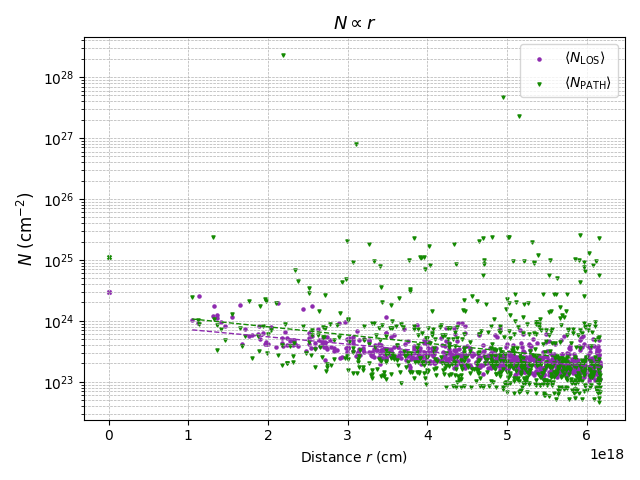
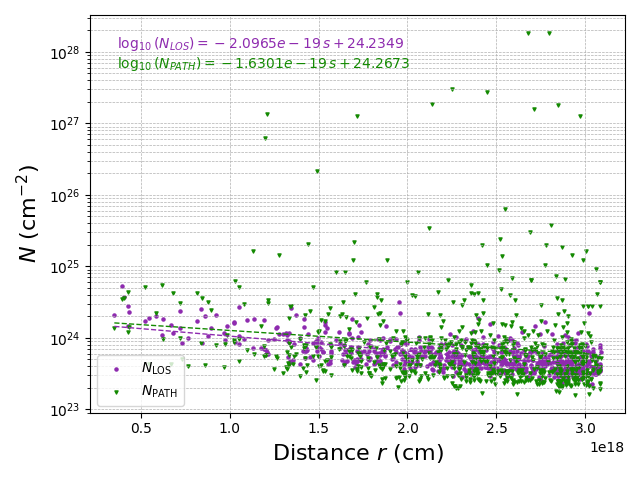
update: added png in descriptors/ | ionization by mirrors plotted in i_rate/ | R vs n_g in reduction/

Changed region(s): [[0.0312, 0.0312, 0.9688, 0.9688], [0.0625, 0.1562, 0.0938, 0.1875]]

diff --git a/padovani.py b/padovani.py
@@ -38,17 +38,16 @@ Estar = 1.0e+6
 
 logE0, logEf = 6, 9
 energy = np.logspace(logE0, logEf, size)
-print("energy range for CR spectrum (log10): ", logE0, logEf)
 diff_energy = np.array([energy[k]-energy[k-1] for k in range(len(energy))])
 diff_energy[0] = energy[0]
 
 #ism_spectrum = lambda x: C*(x**0.1/((Estar + x)**2.8))
 #ism_spectrum = lambda x: Jstar*(x/Estar)**a
-if sys.argv[3] == 'L':
+if sys.argv[2] == 'L':
     C = 2.43e+15 *4*np.pi
     alpha, beta = 0.1, 2.8
     Enot = 650e+6
-elif sys.argv[3] == 'H':
+elif sys.argv[2] == 'H':
     C = 2.43e+15 *4*np.pi
     alpha, beta = -0.8, 1.9
     Enot = 650e+6
@@ -69,7 +68,6 @@ if True:
 
     cross = interpolate.interp1d( cross_data["E"], cross_data["sigmap"])
     loss = interpolate.interp1d(loss_data["E"], loss_data["L_full"])
-
 
 if True: # Padovani & Alexei Models for CR Ionization-rate
     """  
@@ -110,14 +108,14 @@ if True: # Padovani & Alexei Models for CR Ionization-rate
     #plt.savefig('./images/i_rate/padovani2018')
     #plt.close()
 
-line, mus = int(sys.argv[1]), int(sys.argv[2])
+mus = int(sys.argv[1])
 
 if True:
 
     import h5py
     import numpy as np
 
-    h5_path = f"./stats/ideal/{sys.argv[4]}/DataBundle.h5"
+    h5_path = f"./stats/ideal/{sys.argv[3]}/DataBundle.h5"
 
     with h5py.File(h5_path, "r") as f:
 
@@ -129,9 +127,6 @@ if True:
         reduction_fac   = f["reduction_factor"][()]
         directions      = f["directions"][()]
         average_column  = f["column_los"][()]
-        numb_density    = f["densities"][()][:, line]
-        magnetic_field =  f["bfields"][()][:, line]
-        radius_vector  =  f["vectors"][()][:, line, :]
 
         # --- Metadata / attributes ---
         cores_used     = f.attrs["cores_used"]
@@ -141,35 +136,23 @@ if True:
         center         = f.attrs["center"]
         volume_range   = f.attrs["volume_range"]
         density_range  = f.attrs["density_range"]
+        follow_index0   = f.attrs["index"]
 
+        # --- Physical Parameters ---
+        numb_densities    = f["densities"][()][:, :]
+        magnetic_fields =  f["bfields"][()][:, :]
+        radius_vectors  =  f["vectors"][()][:, :, :]
 
-    # --- Adjustments / Resizing ---
-    mask = np.where(numb_density > 0.0)[0]
-    start, end = mask[0], mask[-1]
-    follow_index = numb_density.shape[0]
-
-    print(start, follow_index//2, end)
-    numb_density    = numb_density[start:end+1]
-    magnetic_field =  magnetic_field[start:end+1]
-    radius_vector  =  radius_vector[start:end+1, :]*pc_to_cm
-    trajectory = np.cumsum(np.linalg.norm(radius_vector, axis=1)) #np.insert(, 0, 0.0)
-
-    print("trajectory:           ", trajectory.shape)
-    print("radius_vectors:       ", radius_vector.shape)
-    print("numb_density:         ", numb_density.shape)
-    print("magnetic_field:       ", magnetic_field.shape)
-
-    am = np.argmax(magnetic_field)
     #numb_density    = numb_density[:am]
     #magnetic_field = magnetic_field[:am]
     #radius_vector  =  radius_vector[:am, :]
-    trajectory = np.cumsum(np.linalg.norm(radius_vector, axis=1))
+
     #magnetic_field =  np.mean(magnetic_field)*magnetic_field/magnetic_field
-    fig, axs = plt.subplot_mosaic([["a"], ["b"], ["c"]], figsize=(10, 8), layout="constrained")
-    axs["a"].plot(trajectory, c="b"); axs["a"].set_title("Trajectory"); axs["a"].set_ylabel("Trajectory")
-    axs["b"].plot(numb_density, c="g"); axs["b"].set_yscale("log"); axs["b"].set_title("Number Density"); axs["b"].set_ylabel("n (cm$^{-3}$)")
-    axs["c"].plot(magnetic_field, c="r"); axs["c"].set_yscale("log"); axs["c"].set_title("Magnetic Field"); axs["c"].set_ylabel("B (μG)"); axs["c"].set_xlabel("Index")
-    plt.savefig("./images/i_rate/mosaic_plot.png"); plt.close()
+    #fig, axs = plt.subplot_mosaic([["a"], ["b"], ["c"]], figsize=(10, 8), layout="constrained")
+    #axs["a"].plot(trajectory, c="b"); axs["a"].set_title("Trajectory"); axs["a"].set_ylabel("Trajectory")
+    #axs["b"].plot(numb_density, c="g"); axs["b"].set_yscale("log"); axs["b"].set_title("Number Density"); axs["b"].set_ylabel("n (cm$^{-3}$)")
+    #axs["c"].plot(magnetic_field, c="r"); axs["c"].set_yscale("log"); axs["c"].set_title("Magnetic Field"); axs["c"].set_ylabel("B (μG)"); axs["c"].set_xlabel("Index")
+    #plt.savefig("./images/i_rate/mosaic_plot.png"); plt.close()
     
 
 def column_density(radius_vector, magnetic_field, numb_density, direction=''):
@@ -217,7 +200,9 @@ def mirrored_column_density(radius_vector, magnetic_field, numb_density, Nmu, di
 
     ds    = np.insert(np.linalg.norm(np.diff(radius_vector, axis=0), axis=1), 0, 0.0)
     Nmir  = np.zeros((len(magnetic_field), len(mu_ism)))
-    s_max = np.argmax(magnetic_field) + 1
+    if  'fwd' in direction:
+        s_max = np.argmax(magnetic_field) + 1
+    s_max = np.argmax(magnetic_field) 
     B_ism = magnetic_field[0]
 
     for i, mui_ism in enumerate(mu_ism): # cosina alpha_i
@@ -287,85 +272,114 @@ def ionization_rate(Nmu, mu_local, dmu, direction = ''):
 
     return zeta, zeta_mui
 
-mu_ism = np.logspace(-1, 0, num=mus) #np.linspace(0, 1, mus) # np.array([1.0])#
+lines = magnetic_fields.shape[1]
+zeta_at_x = np.zeros(lines)
+nmir_at_x = np.zeros(lines)
 
-""" Column Densities N_+(mu, s) & N_-(mu, s)"""
-
-Npmu, mu_local_fwd, dmu_fwd, t_fwd = column_density(radius_vector, magnetic_field, numb_density, "fwd")
-
-Nmmu, mu_local_bwd, dmu_bwd, t_bwd = column_density(radius_vector[::-1, :], magnetic_field[::-1], numb_density[::-1], "bwd")
-
-if False:
-
-    for mui in range(Npmu.shape[1]):
-        plt.plot(Npmu[:, mui], label=f"$\mu_i = ${mu_ism[mui]}")    
-        #plt.legend()
-
-    plt.title("Column density $N_+(\mu_i)$  ")
-    plt.xlabel("Index")
-    plt.ylabel(r"$N_+(\mu_i, s)$")
-    #plt.xscale('log')
-    plt.yscale('log')
-    plt.savefig(f'./images/i_rate/{sys.argv[3]}Nfwd.png')  # Save as PNG with high resolution
-    plt.close()
-
-    for mui in range(Npmu.shape[1]):
-        plt.plot(Nmmu[:, mui], label=f"$\mu_i = ${mu_ism[mui]}")    
-        #plt.legend()
-
-    plt.title("Column density $N_-(\mu_i)$  ")
-    plt.xlabel("Index")
-    plt.ylabel(r"$N_-(\mu_i, s)$")
-    #plt.xscale('log')
-    plt.yscale('log')
-    plt.savefig(f'./images/i_rate/{sys.argv[3]}Nbwd.png')  # Save as PNG with high resolution
-    plt.close()
-
-    for mui in range(dmu_fwd.shape[1]):
-        plt.plot(dmu_fwd[:, mui], label=f"$\mu_i = ${mu_ism[mui]}") 
-        #plt.legend()
-
-    plt.title(r"Evolution of $\frac{B}{B_i}\frac{\mu_i}{\mu}$ (Forwards)")
-    plt.xlabel("trajectory (cm)")
-    plt.ylabel(r"$\frac{\partial \mu_i}{\partial \mu}$")
-    plt.xscale('log')
-    plt.savefig(f'./images/i_rate/{sys.argv[3]}Jfwd.png')  # Save as PNG with high resolution
-    plt.close()
+for line in range(lines):
+    numb_density    = numb_densities[:, line]
+    magnetic_field =  magnetic_fields[:, line]
+    radius_vector  =  radius_vectors[:, line, :]
     
-    for mui in range(dmu_bwd.shape[1]):
-        plt.plot(dmu_bwd[:, mui], label=f"$\mu_i = ${mu_ism[mui]}") 
-        #plt.legend()
+    # --- Adjustments / Resizing ---
+    mask = np.where(numb_density > 0.0)[0]
+    start, end = mask[0], mask[-1]
 
-    plt.title(r"Evolution of $\frac{B}{B_i}\frac{\mu_i}{\mu}$ (Backwards)")
-    plt.xlabel("trajectory (cm)")
-    plt.ylabel(r"$\frac{\partial \mu_i}{\partial \mu}$")
-    plt.xscale('log')
-    plt.savefig(f'./images/i_rate/{sys.argv[3]}Jbwd.png')  # Save as PNG with high resolution
-    plt.close()
+    #print(start, follow_index//2, end)
+    numb_density    = numb_density[start:end]
+    magnetic_field =  magnetic_field[start:end]
+    radius_vector  =  radius_vector[start:end, :]*pc_to_cm
+    trajectory = np.cumsum(np.linalg.norm(radius_vector, axis=1)) #np.insert(, 0, 0.0)
 
-"""
-N_mirr = N_+ + int_{s'}
+    # follow_index corresponds to the half N index originally before the first slicing
+    # if we slice again, we cut from 0=>start then follow_index => follow_index - start
+    #print("\nbefore", follow_index0, end-start, radius_vector.shape)
+    if follow_index0 > end - start:
+        follow_index = follow_index0 - start
+    #print("after ", follow_index, end-start, radius_vector.shape)
+    #print("trajectory:           ", trajectory.shape))
+    #print("numb_density:         ", numb_density.shape)
+    #print("magnetic_field:       ", magnetic_field.shape)
 
-"""
-max_arg = np.argmax(magnetic_field)
+    trajectory = np.cumsum(np.linalg.norm(radius_vector, axis=1))
 
-Nmir_fwd = mirrored_column_density(radius_vector[:max_arg,:], magnetic_field[:max_arg], numb_density[:max_arg], Npmu[:max_arg,:], 'mir_fwd')
-Nmir_bwd = mirrored_column_density(radius_vector[max_arg+1:,:][::-1,:], magnetic_field[max_arg+1:][::-1], numb_density[max_arg+1:][::-1], Nmmu[max_arg+1:,:], 'mir_bwd')
+    mu_ism = np.logspace(-1, 0, num=mus) #np.linspace(0, 1, mus) # np.array([1.0])#
 
-""" Ionization Rate for N = N(s) """
+    """ Column Densities N_+(mu, s) & N_-(mu, s)"""
 
-#zeta_fwd, zeta_mui_fwd  = ionization_rate(Npmu, mu_local_fwd, dmu_fwd, 'fwd')
-#zeta_bwd, zeta_mui_bwd = ionization_rate(Nmmu, mu_local_bwd, dmu_bwd,'bwd')
+    Npmu, mu_local_fwd, dmu_fwd, t_fwd = column_density(radius_vector, magnetic_field, numb_density, "fwd")
 
-zeta_mir_fwd,  zeta_mui_mir_fwd  = ionization_rate(Nmir_fwd, mu_local_fwd[:max_arg,:], dmu_fwd[:max_arg,:], 'mir_fwd')
-zeta_mir_bwd, zeta_mui_mir_bwd = ionization_rate(Nmir_bwd, mu_local_bwd[max_arg+1:,:], dmu_bwd[max_arg+1:,:], 'mir_bwd')
+    Nmmu, mu_local_bwd, dmu_bwd, t_bwd = column_density(radius_vector[::-1, :], magnetic_field[::-1], numb_density[::-1], "bwd")
 
-Nmir = np.sum(np.concatenate((Nmir_fwd, Nmir_bwd[::-1]), axis=0), axis=1)
-zeta = np.concatenate((zeta_mir_fwd, zeta_mir_bwd[::-1]), axis=0)
+    if False:
 
+        for mui in range(Npmu.shape[1]):
+            plt.plot(Npmu[:, mui], label=f"$\mu_i = ${mu_ism[mui]}")    
+            #plt.legend()
+
+        plt.title("Column density $N_+(\mu_i)$  ")
+        plt.xlabel("Index")
+        plt.ylabel(r"$N_+(\mu_i, s)$")
+        #plt.xscale('log')
+        plt.yscale('log')
+        plt.savefig(f'./images/i_rate/{sys.argv[3]}Nfwd.png')  # Save as PNG with high resolution
+        plt.close()
+
+        for mui in range(Npmu.shape[1]):
+            plt.plot(Nmmu[:, mui], label=f"$\mu_i = ${mu_ism[mui]}")    
+            #plt.legend()
+
+        plt.title("Column density $N_-(\mu_i)$  ")
+        plt.xlabel("Index")
+        plt.ylabel(r"$N_-(\mu_i, s)$")
+        #plt.xscale('log')
+        plt.yscale('log')
+        plt.savefig(f'./images/i_rate/{sys.argv[3]}Nbwd.png')  # Save as PNG with high resolution
+        plt.close()
+
+        for mui in range(dmu_fwd.shape[1]):
+            plt.plot(dmu_fwd[:, mui], label=f"$\mu_i = ${mu_ism[mui]}") 
+            #plt.legend()
+
+        plt.title(r"Evolution of $\frac{B}{B_i}\frac{\mu_i}{\mu}$ (Forwards)")
+        plt.xlabel("trajectory (cm)")
+        plt.ylabel(r"$\frac{\partial \mu_i}{\partial \mu}$")
+        plt.xscale('log')
+        plt.savefig(f'./images/i_rate/{sys.argv[3]}Jfwd.png')  # Save as PNG with high resolution
+        plt.close()
+        
+        for mui in range(dmu_bwd.shape[1]):
+            plt.plot(dmu_bwd[:, mui], label=f"$\mu_i = ${mu_ism[mui]}") 
+            #plt.legend()
+
+        plt.title(r"Evolution of $\frac{B}{B_i}\frac{\mu_i}{\mu}$ (Backwards)")
+        plt.xlabel("trajectory (cm)")
+        plt.ylabel(r"$\frac{\partial \mu_i}{\partial \mu}$")
+        plt.xscale('log')
+        plt.savefig(f'./images/i_rate/{sys.argv[3]}Jbwd.png')  # Save as PNG with high resolution
+        plt.close()
+
+    max_arg = np.argmax(magnetic_field)
+
+    Nmir_fwd = mirrored_column_density(radius_vector[:max_arg,:], magnetic_field[:max_arg], numb_density[:max_arg], Npmu[:max_arg,:], 'mir_fwd')
+    Nmir_bwd = mirrored_column_density(radius_vector[max_arg:,:][::-1,:], magnetic_field[max_arg:][::-1], numb_density[max_arg:][::-1], Nmmu[max_arg:,:], 'mir_bwd')
+
+    """ Ionization Rate for N = N(s) """
+
+    zeta_mir_fwd,  zeta_mui_mir_fwd  = ionization_rate(Nmir_fwd, mu_local_fwd[:max_arg,:], dmu_fwd[:max_arg,:], 'mir_fwd')
+    zeta_mir_bwd, zeta_mui_mir_bwd = ionization_rate(Nmir_bwd, mu_local_bwd[max_arg:,:], dmu_bwd[max_arg:,:], 'mir_bwd')
+
+    Nmir = np.sum(np.concatenate((Nmir_fwd, Nmir_bwd[::-1]), axis=0), axis=1)
+    zeta = np.concatenate((zeta_mir_fwd, zeta_mir_bwd[::-1]), axis=0)
+    
+    print(zeta.shape, zeta_at_x.shape)
+    print(Nmir[follow_index], zeta[follow_index])
+    zeta_at_x[line] = zeta[follow_index]
+    nmir_at_x[line] = Nmir[follow_index]
+ 
 fig, ax = plt.subplots()
 
-ax.scatter(Nmir, zeta, s=8, marker='|',color="red",label=fr"$\zeta$")
+ax.scatter(nmir_at_x, zeta_at_x, s=8, marker='|',color="red",label=fr"$\zeta$")
 #ax.plot(Nmir,label=fr"$\zeta$")
 ax.plot(Neff, 10**log_H(Neff), label = 'Model H')
 ax.plot(Neff, 10**log_L(Neff), label = 'Model L')
@@ -383,14 +397,14 @@ plt.close()
 
 fig, ax = plt.subplots(figsize=(8, 3.5))
 
-bins = np.linspace(np.log10(np.min(zeta)),
-                   np.log10(np.max(zeta)),
+bins = np.linspace(np.log10(np.min(zeta_at_x)),
+                   np.log10(np.max(zeta_at_x)),
                    zeta.shape[0]//10)
 
-ax.hist(np.log10(zeta), bins=bins, alpha=1,
+ax.hist(np.log10(zeta_at_x), bins=bins, alpha=1,
         histtype='stepfilled', label=f"430 snap")
 
-print("Mean power of $\log_{10}(\zeta}$: ", np.mean(np.log10((zeta))))
+print("Mean power of $\log_{10}(\zeta}$: ", np.mean(np.log10((zeta_at_x))))
 
 ax.set_yscale('log')
 ax.set_ylabel('Counts', fontsize=12)

diff --git a/stats.py b/stats.py
@@ -1069,7 +1069,7 @@ if True:
     # Log scales
     #ax.set_yscale('log')
     #ax.set_xscale('log')
-    ax.set_ylim([-19, -14])
+    ax.set_ylim([-19, -15])
     
     # Scatter plot with label for legend
     #ax.scatter(0.0, log_ionization_path_l[0], marker='x',color="#8E2BAF", s=8 , alpha = 0.5)
@@ -1265,6 +1265,7 @@ with h5py.File(h5_path, "w") as f:
     f.attrs["cores_used"] = os.cpu_count()
     f.attrs["pre_allocation_number"] = 2 * N
     f.attrs["rloc"] = rloc
+    f.attrs["index"] = follow_index
     f.attrs["max_cycles"] = m
     f.attrs["center"] = Center
     f.attrs["volume_range"] = [Volume[np.argmin(Volume)],Volume[np.argmax(Volume)]]

diff --git a/parse.py b/parse.py
@@ -824,7 +824,7 @@ if True: # Statistical despcriptors and fraction
     plt.savefig('./amb_moments.png', dpi=300)
     plt.close()
 
-if True: # 3D histogram of R in time (but time is represented by index)
+if False: # 3D histogram of R in time (but time is represented by index)
 
     times, n, r = zip(*[(float(time), _ , r100_distro)
                             for time, _, r100_distro in ReducedBundle['ideal']])
